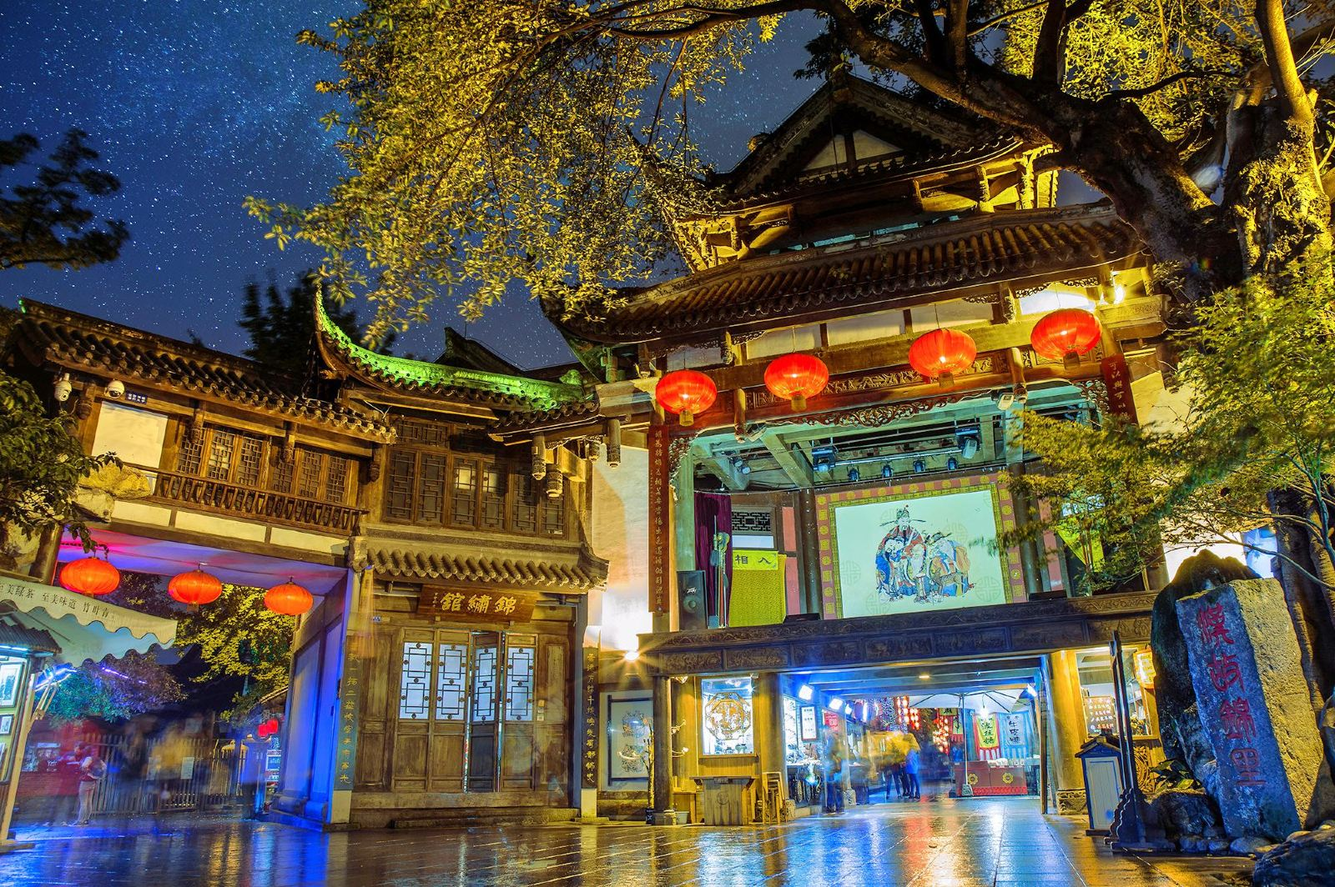
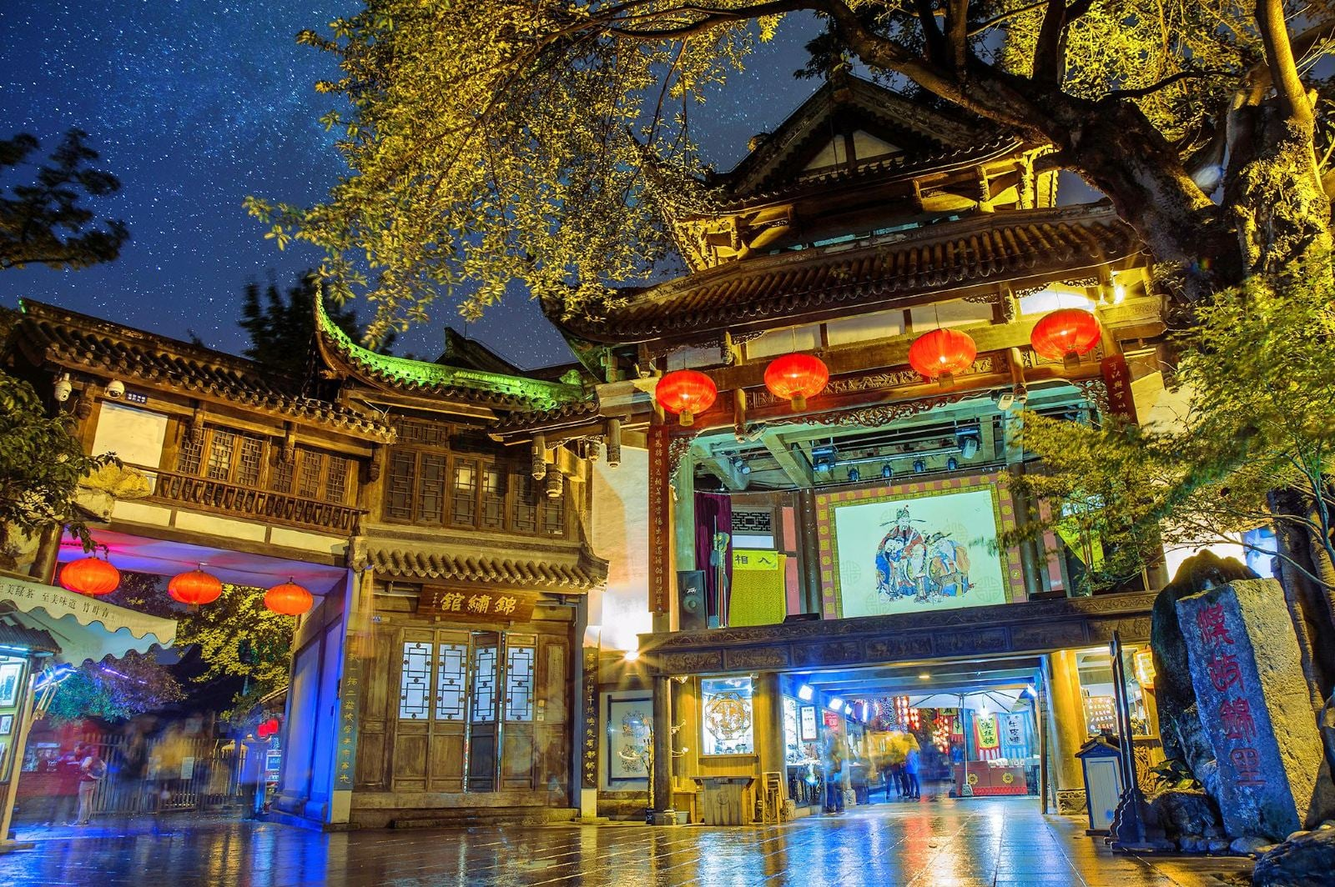
pic opt

Changed region(s): [[0.8125, 0.062, 0.8438, 0.093], [0.8125, 0.0, 0.8438, 0.031]]

diff --git a/compress-ultra.js b/compress-ultra.js
@@ -1,0 +1,99 @@
+const sharp = require('sharp');
+const fs = require('fs');
+const path = require('path');
+
+const ultraLargeImages = [
+  'public/images/cities/beijing.jpg',
+  'public/images/cities/chengdu.jpg',
+  'public/images/attractions/great-wall.jpg',
+  'public/images/attractions/giant-panda-base.jpg'
+];
+
+async function compressUltra(inputPath) {
+  try {
+    const fullPath = path.join(__dirname, inputPath);
+    const stats = fs.statSync(fullPath);
+    
+    console.log(`Ultra compression for ${inputPath} (${(stats.size/1024/1024).toFixed(1)}MB)...`);
+    
+    const image = sharp(fullPath);
+    const metadata = await image.metadata();
+    
+    // Try different quality levels to get under 1MB
+    let quality = 60;
+    let compressedBuffer;
+    let newSize;
+    
+    while (quality >= 40) {
+      compressedBuffer = await image
+        .jpeg({
+          quality: quality,
+          progressive: true,
+          mozjpeg: true,
+          trellisQuantisation: true,
+          overshootDeringing: true,
+          optimiseScans: true,
+          optimiseCoding: true
+        })
+        .toBuffer();
+      
+      newSize = compressedBuffer.length;
+      
+      if (newSize < 1024 * 1024) {
+        break;
+      }
+      
+      quality -= 5;
+    }
+    
+    // If still over 1MB, try with resize (keeping aspect ratio)
+    if (newSize > 1024 * 1024) {
+      console.log(`⚠  Still over 1MB, trying with slight resize...`);
+      
+      // Calculate new dimensions to reduce file size
+      const maxDimension = Math.max(metadata.width, metadata.height);
+      let scaleFactor = 0.9; // Start with 90% of original
+      
+      while (scaleFactor >= 0.5 && newSize > 1024 * 1024) {
+        const newWidth = Math.round(metadata.width * scaleFactor);
+        const newHeight = Math.round(metadata.height * scaleFactor);
+        
+        compressedBuffer = await image
+          .resize(newWidth, newHeight, {
+            fit: 'inside',
+            withoutEnlargement: true
+          })
+          .jpeg({
+            quality: 65,
+            progressive: true,
+            mozjpeg: true
+          })
+          .toBuffer();
+        
+        newSize = compressedBuffer.length;
+        scaleFactor -= 0.1;
+      }
+    }
+    
+    // Write final compressed image
+    fs.writeFileSync(fullPath, compressedBuffer);
+    
+    const savings = ((stats.size - newSize) / stats.size * 100).toFixed(1);
+    console.log(`✓ ${inputPath}: ${(stats.size/1024/1024).toFixed(1)}MB → ${(newSize/1024/1024).toFixed(1)}MB (${savings}% reduction)`);
+    
+  } catch (error) {
+    console.error(`Error compressing ${inputPath}:`, error.message);
+  }
+}
+
+async function main() {
+  console.log('Starting ultra compression for remaining large images...\n');
+  
+  for (const imagePath of ultraLargeImages) {
+    await compressUltra(imagePath);
+  }
+  
+  console.log('\n✅ Ultra compression completed!');
+}
+
+main().catch(console.error);

diff --git a/compress-large-images.js b/compress-large-images.js
@@ -1,0 +1,91 @@
+const sharp = require('sharp');
+const fs = require('fs');
+const path = require('path');
+
+const largeImages = [
+  'public/images/hero.jpg',
+  'public/images/cities/shanghai.jpg',
+  'public/images/cities/chengdu.jpg',
+  'public/images/cities/beijing.jpg',
+  'public/images/attractions/forbidden-city.jpg',
+  'public/images/attractions/great-wall.jpg',
+  'public/images/attractions/giant-panda-base.jpg',
+  'public/images/attractions/the-bund.jpg'
+];
+
+async function compressLargeImage(inputPath) {
+  try {
+    const fullPath = path.join(__dirname, inputPath);
+    
+    // Check if file is still larger than 1MB
+    const stats = fs.statSync(fullPath);
+    if (stats.size < 1024 * 1024) {
+      console.log(`Skipping ${inputPath} - already under 1MB`);
+      return;
+    }
+    
+    const image = sharp(fullPath);
+    const metadata = await image.metadata();
+    
+    console.log(`Compressing large image ${inputPath} (${metadata.width}x${metadata.height}, ${(stats.size/1024/1024).toFixed(1)}MB)...`);
+    
+    let compressedBuffer;
+    
+    if (metadata.format === 'jpeg') {
+      // More aggressive JPEG compression
+      compressedBuffer = await image
+        .jpeg({
+          quality: 70, // Lower quality for more compression
+          progressive: true,
+          mozjpeg: true,
+          trellisQuantisation: true,
+          overshootDeringing: true,
+          optimiseScans: true,
+          optimiseCoding: true
+        })
+        .toBuffer();
+    } else if (metadata.format === 'png') {
+      // More aggressive PNG compression
+      compressedBuffer = await image
+        .png({
+          quality: 70,
+          compressionLevel: 9,
+          adaptiveFiltering: false,
+          effort: 10,
+          palette: true // Use palette for better compression
+        })
+        .toBuffer();
+    } else {
+      console.log(`Skipping ${inputPath} - unsupported format`);
+      return;
+    }
+    
+    // Write compressed image
+    fs.writeFileSync(fullPath, compressedBuffer);
+    
+    const newSize = fs.statSync(fullPath).size;
+    const savings = ((stats.size - newSize) / stats.size * 100).toFixed(1);
+    
+    console.log(`✓ ${inputPath}: ${(stats.size/1024/1024).toFixed(1)}MB → ${(newSize/1024/1024).toFixed(1)}MB (${savings}% reduction)`);
+    
+    // Check if still over 1MB and warn
+    if (newSize > 1024 * 1024) {
+      console.log(`⚠  ${inputPath} is still ${(newSize/1024/1024).toFixed(1)}MB - consider reducing quality further`);
+    }
+    
+  } catch (error) {
+    console.error(`Error compressing ${inputPath}:`, error.message);
+  }
+}
+
+async function main() {
+  console.log('Starting aggressive compression for large images...\n');
+  
+  for (const imagePath of largeImages) {
+    await compressLargeImage(imagePath);
+  }
+  
+  console.log('\n✅ Large image compression completed!');
+}
+
+main().catch(console.error);

diff --git a/compress-images.js b/compress-images.js
@@ -1,0 +1,85 @@
+const sharp = require('sharp');
+const fs = require('fs');
+const path = require('path');
+
+const imagePaths = [
+  'public/images/hero.jpg',
+  'public/images/cities/shanghai.jpg',
+  'public/images/cities/hangzhou.jpg',
+  'public/images/cities/chengdu.jpg',
+  'public/images/cities/beijing.jpg',
+  'public/images/attractions/west-lake.jpg',
+  'public/images/attractions/the-bund.jpg',
+  'public/images/attractions/lingyin-temple.jpg',
+  'public/images/attractions/leifeng-pagoda2.jpg',
+  'public/images/attractions/leifeng-pagoda.jpg',
+  'public/images/attractions/jinli-street.jpg',
+  'public/images/attractions/great-wall.jpg',
+  'public/images/attractions/forbidden-city.jpg',
+  'public/images/attractions/giant-panda-base.jpg'
+];
+
+async function compressImage(inputPath) {
+  try {
+    const fullPath = path.join(__dirname, inputPath);
+    const backupPath = fullPath.replace(/\.(jpg|jpeg|png)$/i, '.backup.$1');
+    
+    // Create backup
+    if (!fs.existsSync(backupPath)) {
+      fs.copyFileSync(fullPath, backupPath);
+    }
+    
+    const image = sharp(fullPath);
+    const metadata = await image.metadata();
+    
+    console.log(`Compressing ${inputPath} (${metadata.width}x${metadata.height})...`);
+    
+    let compressedBuffer;
+    
+    if (metadata.format === 'jpeg') {
+      compressedBuffer = await image
+        .jpeg({
+          quality: 85,
+          progressive: true,
+          mozjpeg: true
+        })
+        .toBuffer();
+    } else if (metadata.format === 'png') {
+      compressedBuffer = await image
+        .png({
+          quality: 85,
+          compressionLevel: 9,
+          adaptiveFiltering: false
+        })
+        .toBuffer();
+    } else {
+      console.log(`Skipping ${inputPath} - unsupported format`);
+      return;
+    }
+    
+    // Write compressed image
+    fs.writeFileSync(fullPath, compressedBuffer);
+    
+    const originalSize = fs.statSync(backupPath).size;
+    const newSize = fs.statSync(fullPath).size;
+    const savings = ((originalSize - newSize) / originalSize * 100).toFixed(1);
+    
+    console.log(`✓ ${inputPath}: ${(originalSize/1024).toFixed(1)}KB → ${(newSize/1024).toFixed(1)}KB (${savings}% reduction)`);
+    
+  } catch (error) {
+    console.error(`Error compressing ${inputPath}:`, error.message);
+  }
+}
+
+async function main() {
+  console.log('Starting image compression...\n');
+  
+  for (const imagePath of imagePaths) {
+    await compressImage(imagePath);
+  }
+  
+  console.log('\n✅ Image compression completed!');
+  console.log('💡 Original images backed up with .backup extension');
+}
+
+main().catch(console.error);

diff --git a/final-compress.js b/final-compress.js
@@ -1,0 +1,27 @@
+const sharp = require('sharp');
+const fs = require('fs');
+const path = require('path');
+
+const finalImages = [
+  'public/images/cities/beijing.jpg',
+  'public/images/attractions/giant-panda-base.jpg'
+];
+
+async function finalCompress() {
+  for (const imgPath of finalImages) {
+    const fullPath = path.join(__dirname, imgPath);
+    const stats = fs.statSync(fullPath);
+    
+    console.log(`Final compression: ${imgPath} (${(stats.size/1024/1024).toFixed(1)}MB)`);
+    
+    const buffer = await sharp(fullPath)
+      .jpeg({ quality: 55, mozjpeg: true })
+      .toBuffer();
+    
+    fs.writeFileSync(fullPath, buffer);
+    const newSize = fs.statSync(fullPath).size;
+    console.log(`→ ${(newSize/1024/1024).toFixed(1)}MB`);
+  }
+}
+
+finalCompress().catch(console.error);
